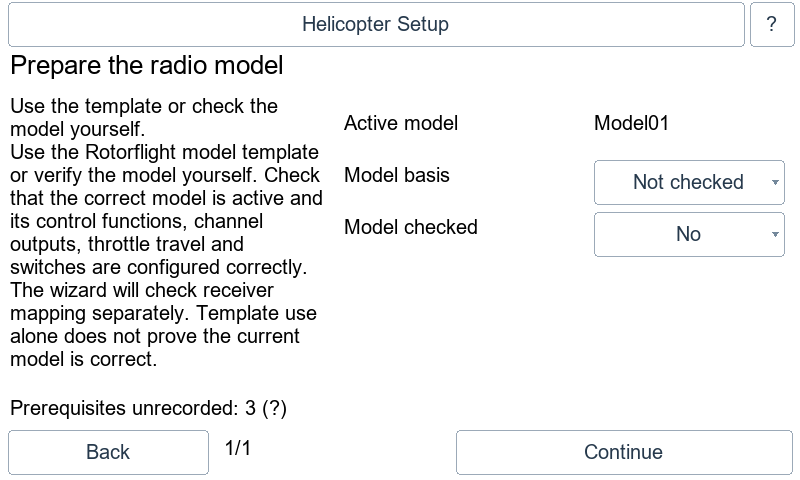
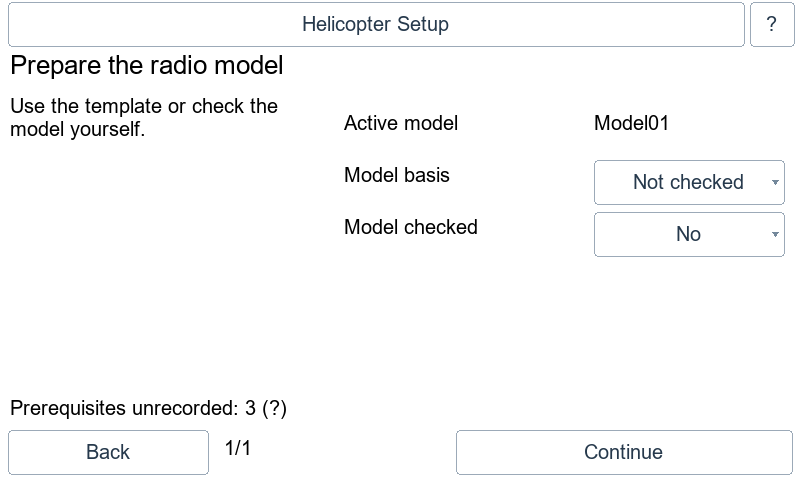
Recover wizard status safely after input pauses and clarify loading

Changed region(s): [[0.0, 0.2812, 0.4062, 0.7812]]

diff --git a/bin/wizard/verify_negative.py b/bin/wizard/verify_negative.py
@@ -11,13 +11,14 @@ def main():
             ('mode-flag','FAIL S03 rescue requires actual mode flag'),
             ('bulk-read','FAIL CORE paged startup reaches ready on telemetry'),
             ('history-early','FAIL CORE unconfirmed step cannot enter history'),
-            ('stale-status','FAIL CORE stale status releases holds before bus wait')]
+            ('stale-status','FAIL CORE stale status releases holds before bus wait'),
+            ('retry-stale','FAIL CORE retry requires new arming lock proof')]
     for mutation,marker in checks:
         command=[args.lua,'bin/wizard/verify.lua']
         if mutation:command+=['--mutation',mutation]
         result=subprocess.run(command,text=True,capture_output=True,encoding='utf-8')
         expected=1 if mutation else 0
-        if result.returncode!=expected or marker not in result.stdout:
+        if result.returncode!=expected or marker not in result.stdout or 'Wizard:' not in result.stdout:
             raise AssertionError(f'{mutation or "positive control"}: exit={result.returncode}\n{result.stdout}\n{result.stderr}')
         print(f'{mutation or "positive control"}: expected exit {expected}, named assertion observed')
 

diff --git a/docs/pages/helicopter_setup.md b/docs/pages/helicopter_setup.md
@@ -24,6 +24,21 @@ receiver wiring detection in USB Configurator: that test reinitializes the same
 UART that carries the radio link. ESC wiring detection and board auto-alignment
 remain available on the radio when supported by firmware.
 
+## Loading and fresh status
+
+A dedicated loading view shows bounded-read progress, a power reminder and Back.
+Its progress updates in the existing scene. The model-preparation card shows a
+short instruction; **?** retains the complete model checklist and active name.
+
+A status older than three seconds immediately blocks editing. Active tests and
+pending writes still fail closed and release overrides. During an idle read-only
+visit, the page displays **Checking current FC status; controls paused** while the
+fresh STATUS request completes. It does not extend the safety window. A failed
+request displays an error and a receiver-link hint. **Try again** starts a new
+arming-disable/readback handshake; the expired timestamp cannot abort that handshake.
+Status processing continues during resumable scene assembly. Legacy override
+warnings appear when a legacy hold is actually used, rather than during model preparation.
+
 ## Before the 19 steps
 
 Every new setup visit first shows **Prepare the radio model**, outside the numbered

diff --git a/release-notes/helicopter-setup.feature.md b/release-notes/helicopter-setup.feature.md
@@ -1,2 +1,3 @@
 - Add a separate Helicopter Setup wizard following the Configurator's 19-step sequence, with labelled mechanical drawings on compact and large-screen layouts, staged MSP work, arming lockout, explicit override cleanup and capability-tested override timeouts (`helicopter_setup`). The existing Setup Assistant is unchanged.
 - Match existing profile/rate assignments, versioned receiver/ESC wire IDs, axis trims and tail transitions to the Configurator source. Add live stick/output feedback, parameter-dependent drawings, clearer detection/hold/save status, source-traced behavior contracts and independent golden vectors.
+- Keep idle wizard status recovery safe after input pauses, repair explicit retry, continue STATUS while assembling scenes, and show a cached loading progress view with concise model preparation and clearer connection feedback (helicopter_setup).
